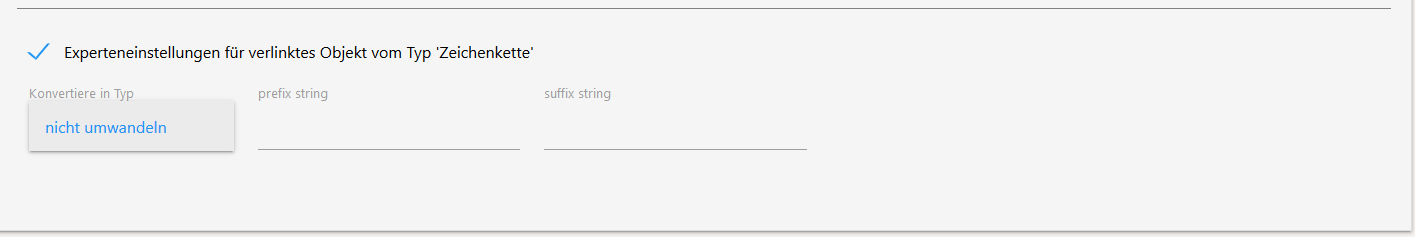
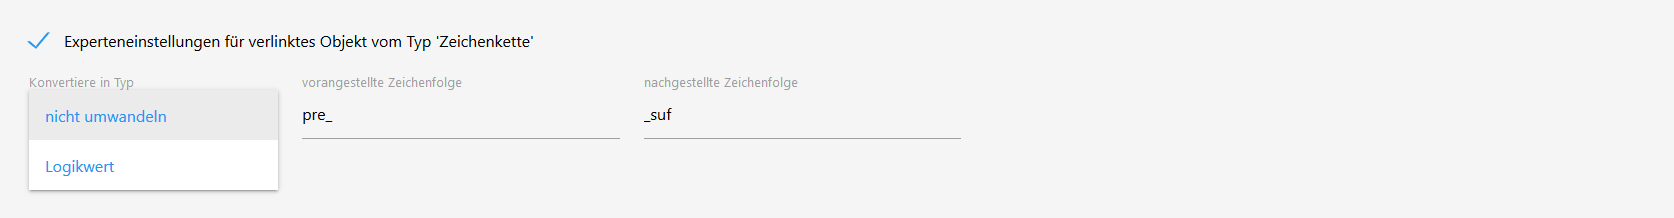
docu updated

diff --git a/doc/de/README.md b/doc/de/README.md
@@ -132,6 +132,12 @@ Zur Info beim Typ 'Datum / Uhrzeit' ist das verlinkte Objekt vom Typ 'Zeichenket
 | vorangestellte Zeichenfolge | Ein Zeichefolge die beim verlinkten Objekt vor die Zeichfolge des Objektes gesetzt wird | alles | Hat das Objekt den Wert 'ich bin ein Zeichenkette', dann hat das verlinkte Objekt den Wert 'prefix_ich bin ein Zeichenkette' |
 | nachgestellte Zeichenfolge | Ein Zeichefolge die beim verlinkten Objekt hinter die Zeichfolge des Objektes gesetzt wird | alles | Hat das Objekt den Wert 'ich bin ein Zeichenkette', dann hat das verlinkte Objekt den Wert 'ich bin ein Zeichenkette_suffix' |
 
+#### Zeichenkette: Konvertiere in Typ 'Logikwert'
+![Strukture](media/expert_settings_string_convert_to_boolean.png)
+
+|  Eingabefeld | Beschreibung  | erlaubte Eingabe | Beispiel (siehe Bild) |
+|---|---|---|---|
+
 ### Experteneinstellungen für verlinktes Objekt vom Typ 'Logikwert'
 ![Strukture](media/expert_settings_boolean.png)
 
